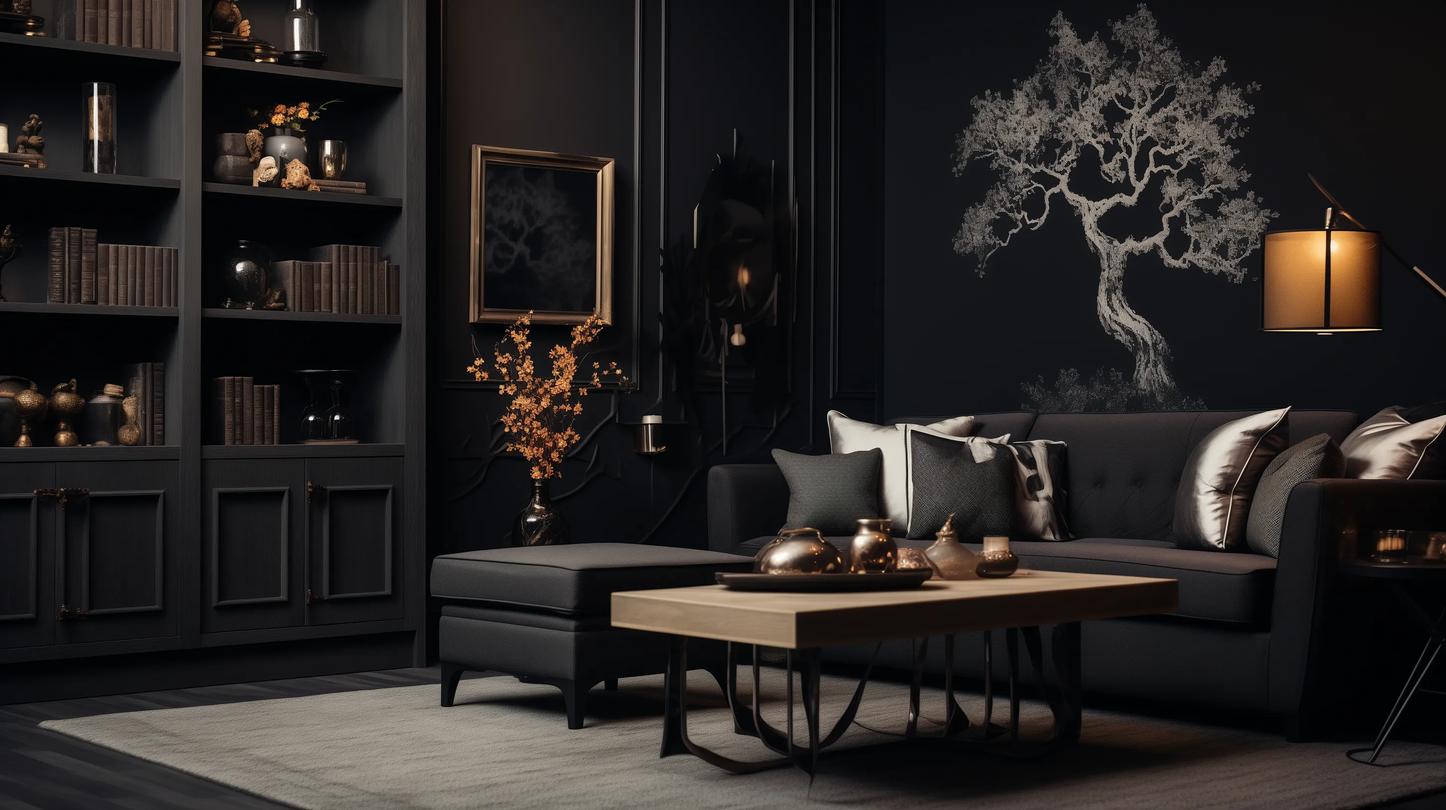
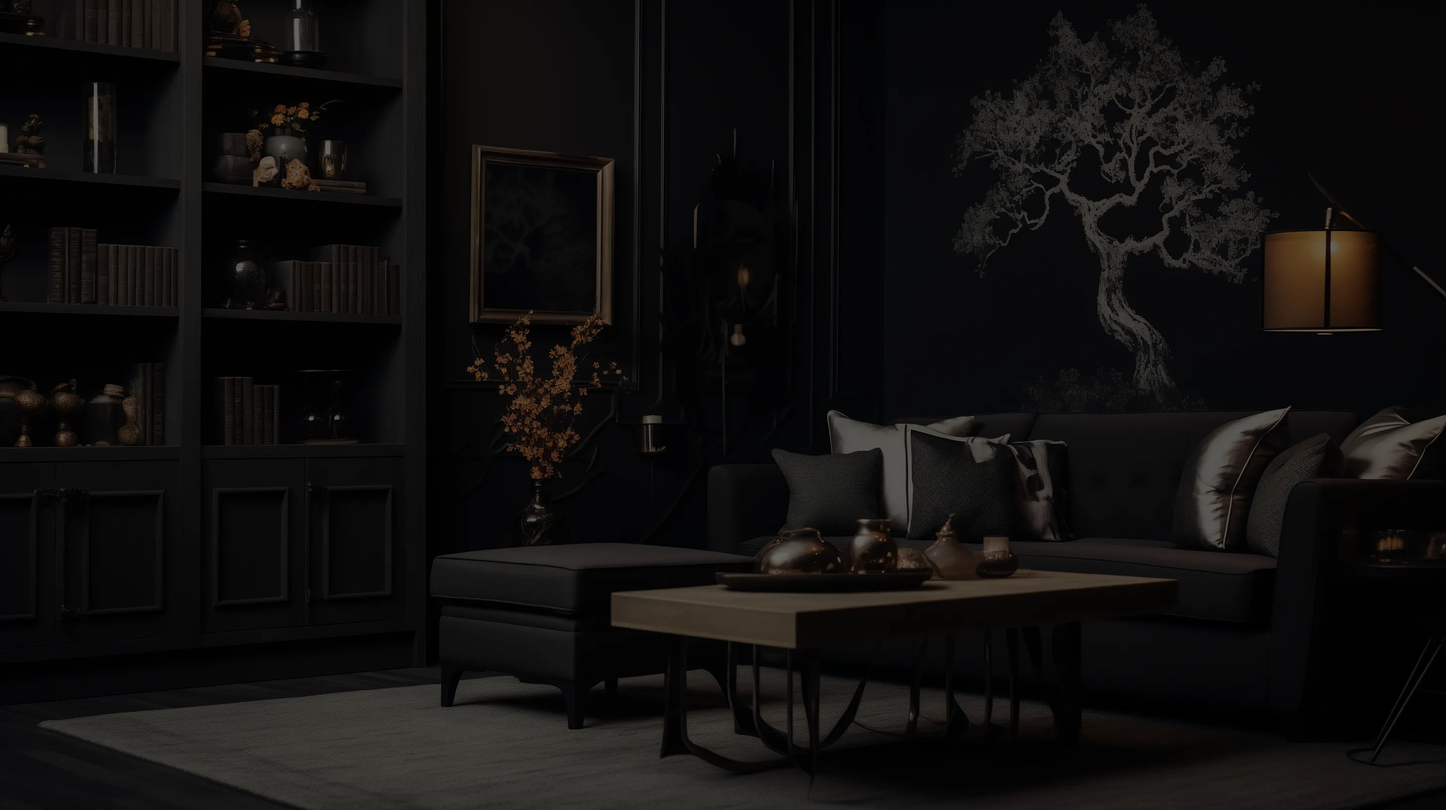
v1.1.9

diff --git a/src/section/main/Main.scss b/src/section/main/Main.scss
@@ -4,19 +4,6 @@
     position: relative;
     min-height: 100vh;
     overflow: hidden;
-
-    &::after{
-        content: '';
-        position: absolute;
-        top: 0;
-        left: 0;
-        right: 0;
-        bottom: 0;
-        width: 100%;
-        height: 100%;
-        z-index: 0;
-        background: rgb(0 0 0 / 70%);
-    }
 }
 
 .main-bg{
